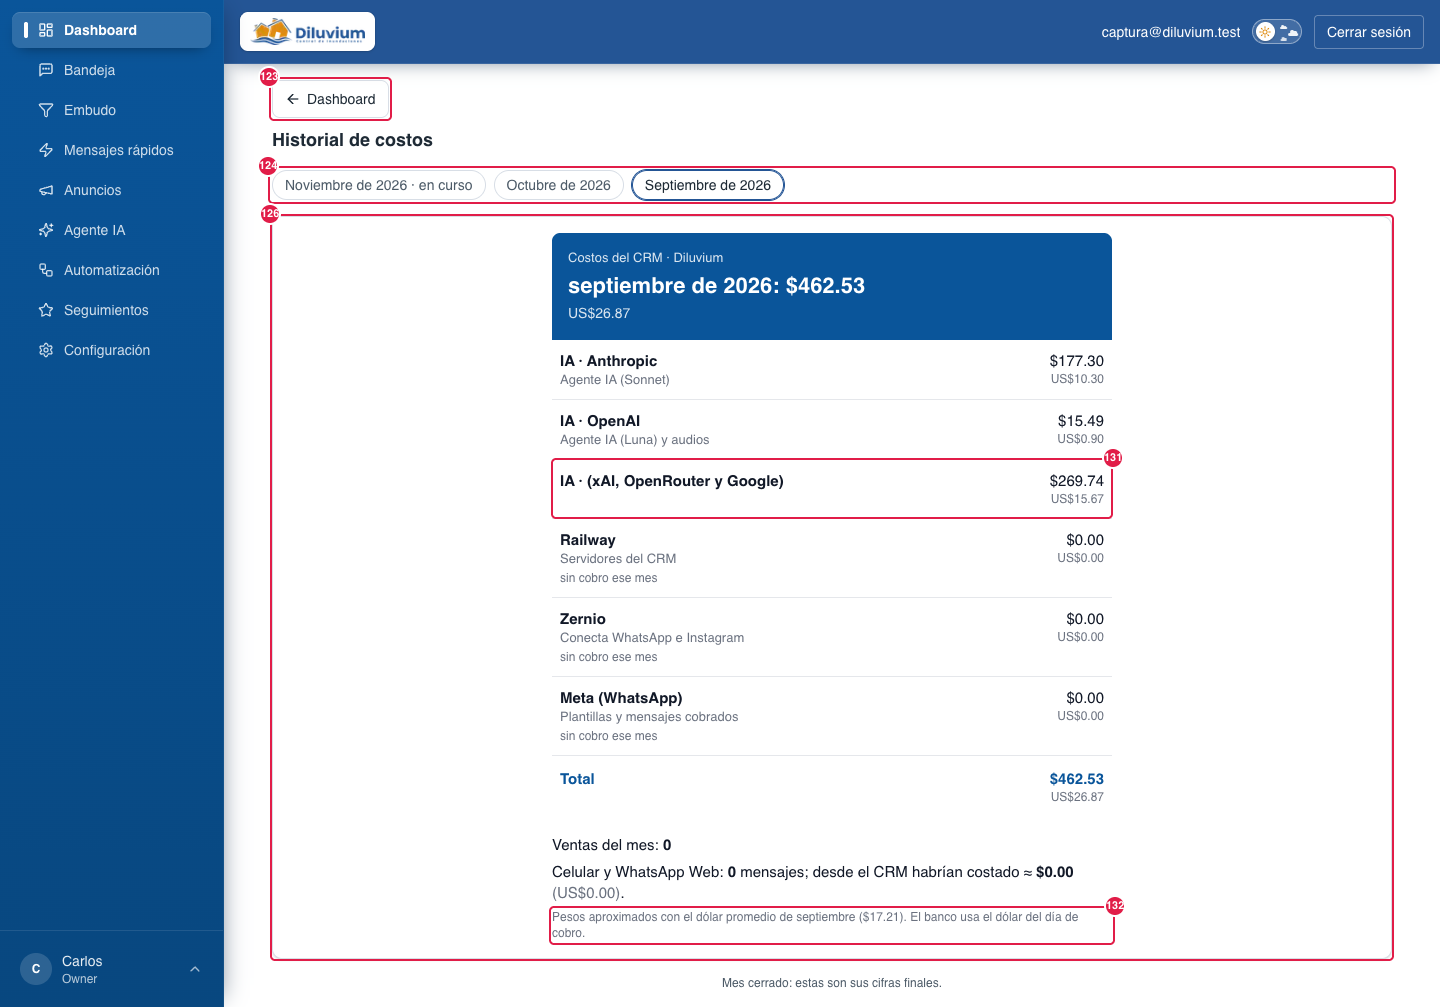
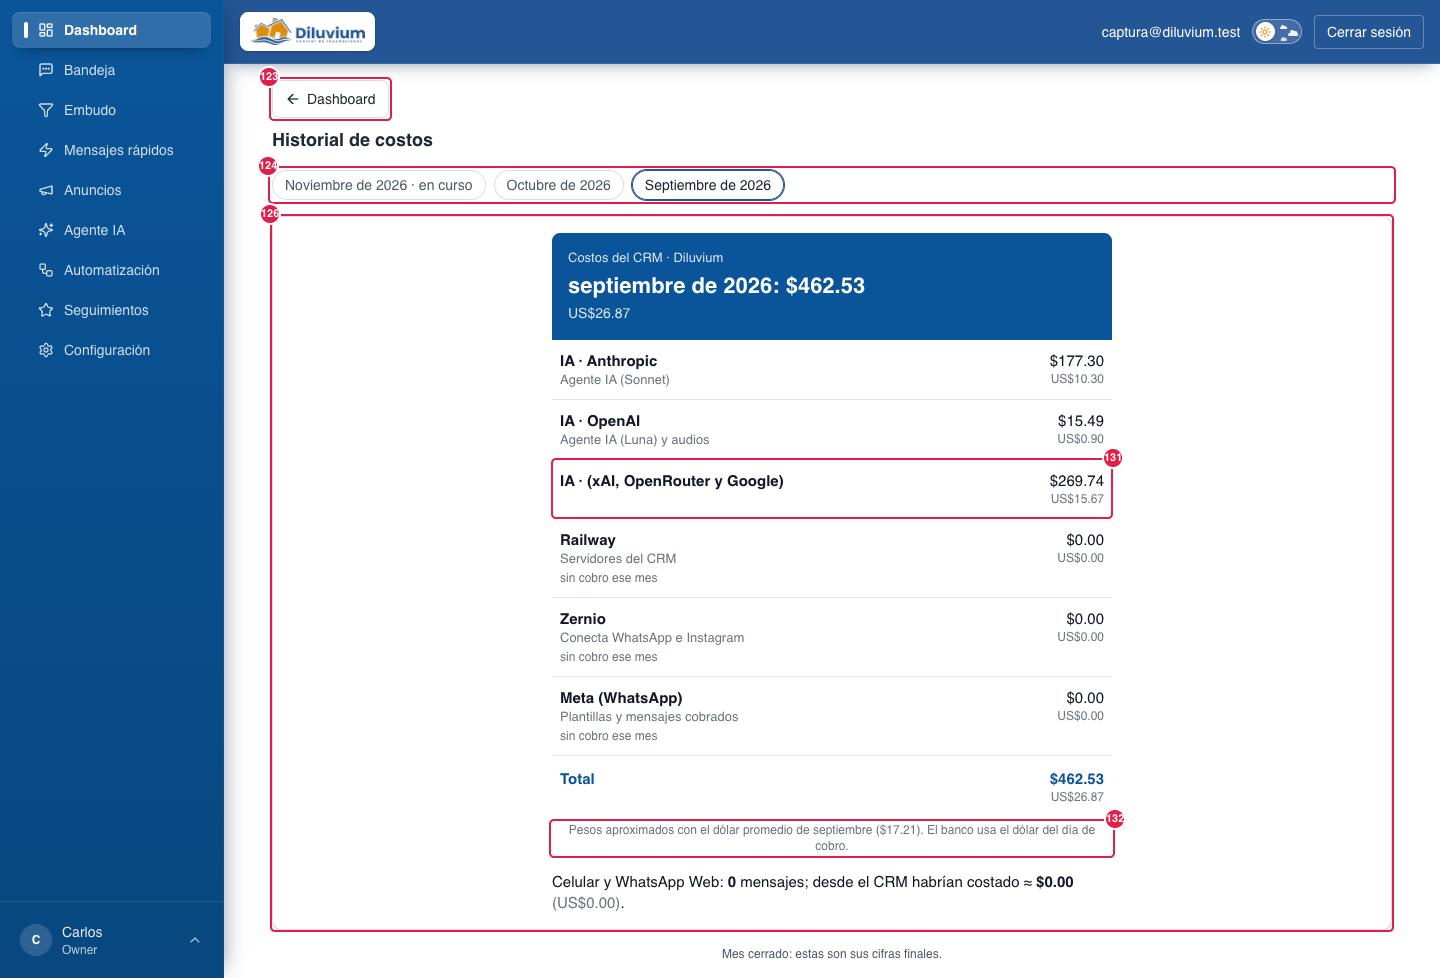
fix(costos): sin ventas en el correo y el Historial; nota del dólar centrada debajo del Total
Pedido del dueño (27-nov-2026): se quita la línea «Ventas del mes · Costo del CRM por venta» (y su conteo, que solo
se usaba ahí) y la nota «Pesos aproximados con el dólar promedio de … El banco usa el dólar del día de cobro.» va
centrada justo debajo del Total, antes de la línea del celular. Mapa 3.1.4 (132) y docs/costos.md al día; capturas
01i y 01k rehechas (datos de ejemplo). 3,081 pruebas OK (con base y Redis), typecheck y lint limpios.

diff --git a/lib/costos/correo.test.ts b/lib/costos/correo.test.ts
@@ -12,9 +12,6 @@ const base: ReporteCostos = {
   totalUsd: 1234.5,
   totalMxn: 22837.25,
   sinDato: ["Railway"],
-  ventas: 38,
-  costoPorVentaUsd: 32.49,
-  costoPorVentaMxn: 600.98,
   tipoCambio: { mxnPorUsd: 18.4993, dias: 22 },
   enCurso: false,
   nota: null,
@@ -28,15 +25,15 @@ describe("correo de costos", () => {
     expect(asuntoCorreo({ ...base, totalMxn: null })).toBe("Costos del CRM · octubre de 2026 · US$1,234.50");
   });
 
-  it("pesos grandes y dólares abajo, «sin dato», notas, ventas, tipo de cambio; escapa el HTML; sin texto de pie", () => {
+  it("pesos grandes y dólares abajo, «sin dato», notas, tipo de cambio; sin ventas; escapa el HTML; sin texto de pie", () => {
     const html = htmlCorreo(base);
     expect(html).toContain("$22,837.25");
     expect(html).toContain("US$1,234.50");
     expect(html).toContain("sin dato");
     expect(html).toContain("Railway ya no tiene el periodo de ese mes");
     expect(html).toContain("(sin Railway)");
-    expect(html).toContain("Ventas del mes: <b>38</b>");
-    expect(html).toContain("Costo del CRM por venta: <b>$600.98</b>");
+    expect(html).not.toContain("Ventas del mes");
+    expect(html).not.toContain("Costo del CRM por venta");
     expect(html).toContain("Pesos aproximados con el dólar promedio de octubre ($18.50). El banco usa el dólar del día de cobro.");
     expect(html).toContain("Diluvium &lt;MX&gt;");
     expect(html).not.toContain("Diluvium <MX>");
@@ -48,7 +45,7 @@ describe("correo de costos", () => {
   });
 
   it("sin tipo de cambio: solo dólares y sin la línea del dólar", () => {
-    const html = htmlCorreo({ ...base, tipoCambio: null, totalMxn: null, costoPorVentaMxn: null, renglones: base.renglones.map((x) => ({ ...x, mxn: null })) });
+    const html = htmlCorreo({ ...base, tipoCambio: null, totalMxn: null, renglones: base.renglones.map((x) => ({ ...x, mxn: null })) });
     expect(html).toContain("octubre de 2026: US$1,234.50");
     expect(html).not.toContain("Pesos aproximados");
     expect(html).not.toContain("$22,837.25");
@@ -83,5 +80,13 @@ describe("correo de costos", () => {
     const html = htmlCorreo({ ...base, renglones: [{ servicio: "IA · (xAI, OpenRouter y Google)", paraQue: "", usd: 15.67, nota: null, mxn: 269.74 }] });
     expect(html).toContain("IA · (xAI, OpenRouter y Google)");
     expect(html).not.toContain('font-size:13px;"></div>');
+  });
+  it("la nota del dólar va centrada justo debajo del Total (antes del celular)", () => {
+    const html = htmlCorreo({ ...base, celular: { mensajes: 1, ahorroUsd: 0.01, ahorroMxn: 0.18, cobradosMeta: 0 } });
+    const tabla = html.indexOf("</table>");
+    const nota = html.indexOf("Pesos aproximados");
+    expect(nota).toBeGreaterThan(tabla);
+    expect(nota).toBeLessThan(html.indexOf("Celular y WhatsApp Web"));
+    expect(html.slice(tabla, nota)).toContain("text-align:center");
   });
 });

diff --git a/lib/costos/cargar.ts b/lib/costos/cargar.ts
@@ -30,21 +30,6 @@ export async function cargarMetaReportado(database: Database, organizationId: st
   return { usd: Number(row.usd), mensajes: Number(row.mensajes) };
 }
 
-// Ventas del mes, como en el informe del primer mes (27-oct-2026): contactos que HOY están en la etapa de venta
-// (papel `venta_cerrada`) y entraron a ella en el mes, hora de Mazatlán. El que entró y regresó a otra etapa no
-// cuenta, ni los contactos de prueba. No depende del Historial de etapas (existe solo desde el 9-oct-2026).
-export async function contarVentas(database: Database, organizationId: string, mes: Mes): Promise<number> {
-  const [row] = await database.execute<{ ventas: string }>(sql`
-    select count(*)::text as ventas
-    from contacts c
-    join funnel_stages f on f.organization_id = c.organization_id and f.key = c.stage and f.role = 'venta_cerrada'
-    where c.organization_id = ${organizationId} and not c.es_prueba
-      and c.stage_changed_at >= (${mes.desde}::timestamp at time zone 'America/Mazatlan') at time zone 'UTC'
-      and c.stage_changed_at < ((${mes.hasta}::date + 1)::timestamp at time zone 'America/Mazatlan') at time zone 'UTC'
-  `);
-  return Number(row?.ventas ?? 0);
-}
-
 export async function cargarReporte(
   database: Database,
   org: { id: string; name: string },
@@ -52,14 +37,13 @@ export async function cargarReporte(
   now: Date,
   tipoCambio: TipoCambio | null,
 ): Promise<ReporteCostos> {
-  const [billing, crmDays, [railway], [zernio], meta, metaReportado, ventas, celular, compras] = await Promise.all([
+  const [billing, crmDays, [railway], [zernio], meta, metaReportado, celular, compras] = await Promise.all([
     loadBillingSnapshots(database, org.id),
     spendByDay(database, org.id, mes.desde),
     database.select().from(railwayBilling).where(eq(railwayBilling.organizationId, org.id)),
     database.select().from(zernioBilling).where(eq(zernioBilling.organizationId, org.id)),
     contarMetaCobrables(database, org.id, mes.desde, mes.hasta),
     cargarMetaReportado(database, org.id, mes),
-    contarVentas(database, org.id, mes),
     // Si falla, el correo sale igual sin esa línea.
     cargarAhorroCelular(database, org.id, mes.desde, mes.hasta).catch(() => null),
     cargarComprasReserva(database, org.id),
@@ -71,7 +55,6 @@ export async function cargarReporte(
     railway: renglonRailway(railway ?? null, mes, now),
     zernio: renglonZernio(zernio ?? null, mes),
     meta: renglonMeta(meta, metaReportado),
-    ventas,
     tipoCambio,
     celular: celular ? { mensajes: celular.total.mensajes, ahorroUsd: celular.total.ahorroUsd, cobradosMeta: celular.total.cobradosMeta } : null,
   });

diff --git a/lib/costos/mes.test.ts b/lib/costos/mes.test.ts
@@ -146,26 +146,22 @@ describe("renglonMeta y armarReporte", () => {
       railway: { renglon: { servicio: "Railway", paraQue: "x", usd: null, nota: "n" }, avisos: [] },
       zernio: { renglon: { servicio: "Zernio", paraQue: "x", usd: 1, nota: null }, avisos: ["z"] },
       meta,
-      ventas: 10,
       tipoCambio: { mxnPorUsd: 18.5, dias: 22 },
     });
     expect(r.totalUsd).toBe(45.92);
     expect(r.sinDato).toEqual(["Railway"]);
-    expect(r.costoPorVentaUsd).toBe(4.59);
     expect(r.avisos).toEqual(["a", "z"]);
     // Pesos por renglón; el total es la suma de los renglones en pesos.
     expect(r.renglones.map((x) => x.mxn)).toEqual([555, null, 18.5, 276.02]);
     expect(r.totalMxn).toBe(849.52);
-    expect(r.costoPorVentaMxn).toBe(84.95);
-    expect(armarReporte({ ...r, ia: { renglones: [], avisos: [] }, railway: { renglon: meta, avisos: [] }, zernio: { renglon: meta, avisos: [] }, meta, ventas: 0 }).costoPorVentaUsd).toBeNull();
+    expect(r).not.toHaveProperty("ventas");
   });
 
   it("sin tipo de cambio: todo en dólares y un aviso", () => {
     const meta = renglonMeta({ marketing: 1, utilidad: 0, servicio: 0 });
     const vacio = { renglon: meta, avisos: [] };
-    const r = armarReporte({ mes: OCT, organizacion: "D", ia: { renglones: [], avisos: [] }, railway: vacio, zernio: vacio, meta, ventas: 3, tipoCambio: null });
+    const r = armarReporte({ mes: OCT, organizacion: "D", ia: { renglones: [], avisos: [] }, railway: vacio, zernio: vacio, meta, tipoCambio: null });
     expect(r.totalMxn).toBeNull();
-    expect(r.costoPorVentaMxn).toBeNull();
     expect(r.renglones.every((x) => x.mxn === null)).toBe(true);
     expect(r.avisos).toEqual(["No se pudo leer el tipo de cambio del Diario Oficial: los montos van solo en dólares."]);
   });
@@ -173,7 +169,7 @@ describe("renglonMeta y armarReporte", () => {
   it("la nota de una sola vez sale solo en el correo de octubre de 2026", () => {
     const meta = renglonMeta({ marketing: 0, utilidad: 0, servicio: 0 });
     const vacio = { renglon: meta, avisos: [] };
-    const base = { organizacion: "D", ia: { renglones: [], avisos: [] }, railway: vacio, zernio: vacio, meta, ventas: 1, tipoCambio: { mxnPorUsd: 18, dias: 1 } };
+    const base = { organizacion: "D", ia: { renglones: [], avisos: [] }, railway: vacio, zernio: vacio, meta, tipoCambio: { mxnPorUsd: 18, dias: 1 } };
     expect(armarReporte({ ...base, mes: OCT }).nota).toMatch(/^Es el primer mes completo del CRM/);
     expect(armarReporte({ ...base, mes: mesDe("2026-11") }).nota).toBeNull();
   });

diff --git a/lib/costos/mes.ts b/lib/costos/mes.ts
@@ -19,7 +19,7 @@ const NOTAS_DEL_MES: Record<string, string> = {
     "Es el primer mes completo del CRM: todavía no hay un mes anterior con qué compararlo, y salió un poco alto por pruebas y ajustes. Desde noviembre el costo ya debe ser más razonable.",
 };
 
-// "2026-10" → del 1 al último día. Los proveedores cobran por día UTC; las ventas y los mensajes de Meta
+// "2026-10" → del 1 al último día. Los proveedores cobran por día UTC; los mensajes de Meta
 // se cuentan con el mes en hora de Mazatlán (lib/costos/cargar.ts).
 export type Mes = { clave: string; desde: string; hasta: string; nombre: string };
 
@@ -42,10 +42,6 @@ export type ReporteCostos = {
   totalMxn: number | null;
   // Servicios que no tuvieron dato: el total va sin ellos.
   sinDato: string[];
-  // Contactos que llegaron a la etapa de venta en el mes (null = no se pudo contar).
-  ventas: number | null;
-  costoPorVentaUsd: number | null;
-  costoPorVentaMxn: number | null;
   // Promedio del dólar en el mes (Diario Oficial); null = no se pudo leer y todo va en dólares.
   tipoCambio: TipoCambio | null;
   // El mes todavía no termina (Historial de costos en vivo): el promedio del dólar es «hasta hoy».
@@ -244,7 +240,6 @@ export function armarReporte(input: {
   railway: ReturnType<typeof renglonRailway>;
   zernio: ReturnType<typeof renglonZernio>;
   meta: Renglon;
-  ventas: number | null;
   tipoCambio: TipoCambio | null;
   celular?: CelularMes | null;
   enCurso?: boolean;
@@ -258,7 +253,6 @@ export function armarReporte(input: {
   // Suma de los renglones en pesos (no total × tipo de cambio) para que cuadre centavo por centavo.
   const totalMxn = tc === null ? null : round2(renglones.reduce((s, r) => s + (r.mxn ?? 0), 0));
   const sinDato = renglones.filter((r) => r.usd === null).map((r) => r.servicio);
-  const ventas = input.ventas;
   const avisos = [...input.ia.avisos, ...input.railway.avisos, ...input.zernio.avisos];
   if (tc === null) avisos.push("No se pudo leer el tipo de cambio del Diario Oficial: los montos van solo en dólares.");
   return {
@@ -268,9 +262,6 @@ export function armarReporte(input: {
     totalUsd,
     totalMxn,
     sinDato,
-    ventas,
-    costoPorVentaUsd: ventas ? round2(totalUsd / ventas) : null,
-    costoPorVentaMxn: ventas && totalMxn !== null ? round2(totalMxn / ventas) : null,
     tipoCambio: input.tipoCambio,
     enCurso: input.enCurso ?? false,
     nota: NOTAS_DEL_MES[input.mes.clave] ?? null,

diff --git a/lib/costos/correo.ts b/lib/costos/correo.ts
@@ -60,27 +60,20 @@ export function htmlCorreo(r: ReporteCostos): string {
   }</td>
 </tr>`;
 
-  let ventas = "";
-  if (r.ventas !== null) {
-    const porVenta = r.costoPorVentaUsd === null ? null : montos(r.costoPorVentaUsd, r.costoPorVentaMxn);
-    ventas = `<p style="margin:16px 0 0;color:#111827;">Ventas del mes: <b>${r.ventas.toLocaleString("es-MX")}</b>${
-      porVenta ? ` · Costo del CRM por venta: <b>${porVenta.principal}</b>${porVenta.secundario ? ` <span style="color:${GRIS};">(${porVenta.secundario})</span>` : ""}` : ""
-    }</p>`;
-  }
-
   // Ahorro por el celular o WhatsApp Web (no suma al total: es lo que NO se pagó).
   let celular = "";
   if (r.celular) {
     const c = r.celular;
     const ahorro = montos(c.ahorroUsd, c.ahorroMxn);
-    celular = `<p style="margin:6px 0 0;color:#111827;">Celular y WhatsApp Web: <b>${c.mensajes.toLocaleString("es-MX")}</b> mensajes; desde el CRM habrían costado ≈ <b>${ahorro.principal}</b>${
+    celular = `<p style="margin:16px 0 0;color:#111827;">Celular y WhatsApp Web: <b>${c.mensajes.toLocaleString("es-MX")}</b> mensajes; desde el CRM habrían costado ≈ <b>${ahorro.principal}</b>${
       ahorro.secundario ? ` <span style="color:${GRIS};">(${ahorro.secundario})</span>` : ""
     }.${c.cobradosMeta > 0 ? ` <span style="color:${NARANJA};font-weight:bold;">Meta cobró ${c.cobradosMeta.toLocaleString("es-MX")} de ellos.</span>` : ""}</p>`;
   }
 
-  // Texto del dueño (27-nov-2026): los pesos son aproximados porque el banco usa el dólar del día de cada cobro.
+  // Texto del dueño (27-nov-2026): los pesos son aproximados porque el banco usa el dólar del día de cada cobro. Va
+  // centrado justo debajo del Total (pedido del dueño).
   const lineaTc = notaTipoCambio(r);
-  const tipoCambio = lineaTc ? `<p style="margin:6px 0 0;color:${GRIS};font-size:12px;">${esc(lineaTc)}</p>` : "";
+  const tipoCambio = lineaTc ? `<p style="margin:4px 0 0;color:${GRIS};font-size:12px;text-align:center;">${esc(lineaTc)}</p>` : "";
 
   const nota = r.nota
     ? `<div style="margin:12px 0 4px;padding:10px 12px;border-left:4px solid ${NAVY};background:#F3F6FA;color:#111827;font-size:14px;">${esc(r.nota)}</div>`
@@ -106,9 +99,8 @@ ${nota}
 ${filas}
 ${total}
 </table>
-${ventas}
-${celular}
 ${tipoCambio}
+${celular}
 ${avisos}
 </div>`;
 }

diff --git a/lib/costos/cargar.int.test.ts b/lib/costos/cargar.int.test.ts
@@ -116,21 +116,6 @@ describe.skipIf(!TEST_DATABASE_URL)("reporte de costos (base real)", () => {
     expect(await meta.contarMetaCobrables(db, ORG, "2026-10-01", "2026-10-31")).toEqual({ marketing: 2, utilidad: 1, servicio: 2 });
   });
 
-  it("ventas: contactos que hoy están en la etapa de venta y entraron en el mes (sin los de prueba)", async () => {
-    const stages = await stagesMod.listFunnelStages(ORG);
-    const venta = stages.find((x) => x.role === "venta_cerrada")!.key;
-    const otra = stages.find((x) => x.role === "cerca_compra")!.key;
-    await chat({ stage: venta, stageChangedAt: T });
-    await chat({ stage: venta, stageChangedAt: new Date("2026-11-01T05:00:00Z") }); // 31-oct en Mazatlán
-    await chat({ stage: venta, stageChangedAt: new Date("2026-10-01T05:00:00Z") }); // 30-sep en Mazatlán
-    await chat({ stage: otra, stageChangedAt: T });
-    await chat({ stage: venta, stageChangedAt: T, prueba: true }); // contacto de prueba
-    const ventaOtra = (await stagesMod.listFunnelStages(OTRA)).find((x) => x.role === "venta_cerrada")!.key;
-    await chat({ org: OTRA, stage: ventaOtra, stageChangedAt: T });
-
-    expect(await cargar.contarVentas(db, ORG, mes.mesDe("2026-10"))).toBe(2);
-  });
-
   it("arma el reporte completo de la organización sin lecturas de cobro", async () => {
     const r = await cargar.cargarReporte(db, { id: ORG, name: "Diluvium" }, mes.mesDe("2026-10"), new Date("2026-11-03T16:00:00Z"), null);
     expect(r.renglones.map((x) => [x.servicio, x.usd])).toEqual([
@@ -141,6 +126,5 @@ describe.skipIf(!TEST_DATABASE_URL)("reporte de costos (base real)", () => {
       ["Meta (WhatsApp)", 0],
     ]);
     expect(r.sinDato).toEqual(["Railway", "Zernio"]);
-    expect(r.ventas).toBe(0);
   });
 });

diff --git a/lib/costos/historial-cargar.ts b/lib/costos/historial-cargar.ts
@@ -12,7 +12,6 @@ import { railwaySummary } from "@/lib/dashboard/railway";
 import { zernioSummary } from "@/lib/dashboard/zernio";
 import { utcDay } from "@/lib/ai/billing/days";
 import { cargarAhorroCelular } from "@/lib/meta-whatsapp/ahorro-celular";
-import { contarVentas } from "./cargar";
 import { cargarComprasReserva } from "./compras-reserva";
 import { htmlCorreo } from "./correo";
 import { renglonesMesCerrado, renglonesMesEnCurso, type RenglonesMes } from "./historial";
@@ -96,8 +95,7 @@ export async function cargarHistorialCostos(
     renglones = renglonesMesCerrado(fila, renglonesIa({ billing, crmDays, mes: m, compras }).renglones);
   }
 
-  const [ventas, celular, tipoCambio] = await Promise.all([
-    contarVentas(database, org.id, m).catch(() => null),
+  const [celular, tipoCambio] = await Promise.all([
     cargarAhorroCelular(database, org.id, m.desde, m.hasta).catch(() => null),
     tipoCambioDe(mes.clave, mes.enCurso, now),
   ]);
@@ -108,7 +106,6 @@ export async function cargarHistorialCostos(
     railway: { renglon: renglones.railway, avisos: [] },
     zernio: { renglon: renglones.zernio, avisos: [] },
     meta: renglones.meta,
-    ventas,
     tipoCambio,
     celular: celular ? { mensajes: celular.total.mensajes, ahorroUsd: celular.total.ahorroUsd, cobradosMeta: celular.total.cobradosMeta } : null,
     enCurso: mes.enCurso,

diff --git a/docs/mapa-crm/3.1-dashboard.md b/docs/mapa-crm/3.1-dashboard.md
@@ -194,7 +194,7 @@ La marca solo se ve aquí: ni la Bandeja ni el Embudo la muestran. Desde el 4-no
 
 Se abre con el botón **Historial de costos** (122) de la tarjeta Costo del CRM. Es el **costo del CRM de cada mes** con el
 **mismo diseño y datos del correo de costos** que llega el día 3 (encabezado azul, pesos grandes y dólares abajo, cada
-servicio, total, ventas, costo por venta, el ahorro del celular y la nota del dólar). El **mes en curso va en
+servicio, total, la nota del dólar debajo del total y el ahorro del celular; sin ventas desde el 27-nov-2026). El **mes en curso va en
 vivo**: lo que va de cada servicio (igual que el «va» de 115), y la página se vuelve a pedir sola cada 5 minutos. Los
 **meses cerrados** salen de lo que el CRM guardó de ese mes (septiembre y octubre de 2026 se cargaron a mano el 21-nov-2026,
 verificados con las facturas; el 26-nov-2026 se volvieron a cotejar al centavo con cada proveedor). Desde el 21-nov-2026.
@@ -214,7 +214,7 @@ Un mes cerrado en el que se compró crédito de los modelos de reserva (131), co
 | 127 | **Cierre estimado** | Solo en el mes en curso: a cuánto cerraría el mes si sigue al ritmo de estos días (igual que en 116). | Todos |
 | 128 | **Nota de abajo** | En el mes en curso, cuándo sale su correo (el día 3 a las 9:00); en un mes cerrado, que son sus cifras finales. | Todos |
 | 131 | **IA · (xAI, OpenRouter y Google)** (renglón del correo) | Los modelos de reserva en un solo renglón, solo con su nombre y su monto (sin texto debajo ni nota): **lo que se compró de crédito en ese mes** (las recargas que se registran en Gasto de IA). **Solo sale el mes en que se compró**; en los demás meses no aparece, porque lo que se usa de esos créditos ya se pagó al comprarlo. Septiembre de 2026: US$15.67 (xAI 5, OpenRouter 5, Google 5.67). Desde el 27-nov-2026 (decisión del dueño). | Todos |
-| 132 | **Nota del dólar** (abajo del correo) | **«Pesos aproximados con el dólar promedio de (mes) ($X). El banco usa el dólar del día de cobro.»** El promedio es el del Diario Oficial; en el mes en curso dice «promedio de (mes) hasta hoy». Lo exacto en pesos está en el estado de cuenta de la tarjeta. Texto del dueño, 27-nov-2026 (antes: «Dólar a $X (promedio de …, Diario Oficial)»). | Todos |
+| 132 | **Nota del dólar** (centrada, justo debajo del Total) | **«Pesos aproximados con el dólar promedio de (mes) ($X). El banco usa el dólar del día de cobro.»** El promedio es el del Diario Oficial; en el mes en curso dice «promedio de (mes) hasta hoy». Lo exacto en pesos está en el estado de cuenta de la tarjeta. Texto del dueño, 27-nov-2026 (antes: «Dólar a $X (promedio de …, Diario Oficial)»). | Todos |
 
 **Lo cambias tú desde la pantalla:** solo el mes.
 

diff --git a/docs/costos.md b/docs/costos.md
@@ -14,8 +14,9 @@ el **día 3 de cada mes**, sin pedirlo. Base: el informe del primer mes (Notion 
 | Zernio | Conecta WhatsApp e Instagram | El mes anterior de Zernio (`zernio_billing`, docs/zernio-costos.md); el día 3 ya está cerrado |
 | Meta (WhatsApp) | Plantillas y mensajes cobrados | Lo que **reporta Meta** del mes (días UTC, sin IVA; docs/meta-whatsapp.md). Sin esa lectura, el **estimado del CRM** (abajo) |
 
-El correo también trae una línea del **ahorro por contestar desde el celular o WhatsApp Web** (docs/meta-whatsapp.md; no suma al total), el **total**, las **ventas del mes** (contactos que hoy están en la etapa de venta y entraron
-a ella en el mes, sin los de prueba) y el **costo del CRM por venta**. Si un servicio no tiene dato, sale «sin dato» y
+El correo también trae el **total**, debajo de él (centrada) la **nota del dólar**, y una línea del **ahorro por
+contestar desde el celular o WhatsApp Web** (docs/meta-whatsapp.md; no suma al total). Las ventas del mes y el costo
+por venta se quitaron el 27-nov-2026 (pedido del dueño). Si un servicio no tiene dato, sale «sin dato» y
 el total dice que va sin él.
 
 **En pesos** (decisión del dueño 28-oct-2026): cada monto sale en pesos y, abajo en gris, en dólares, con el
